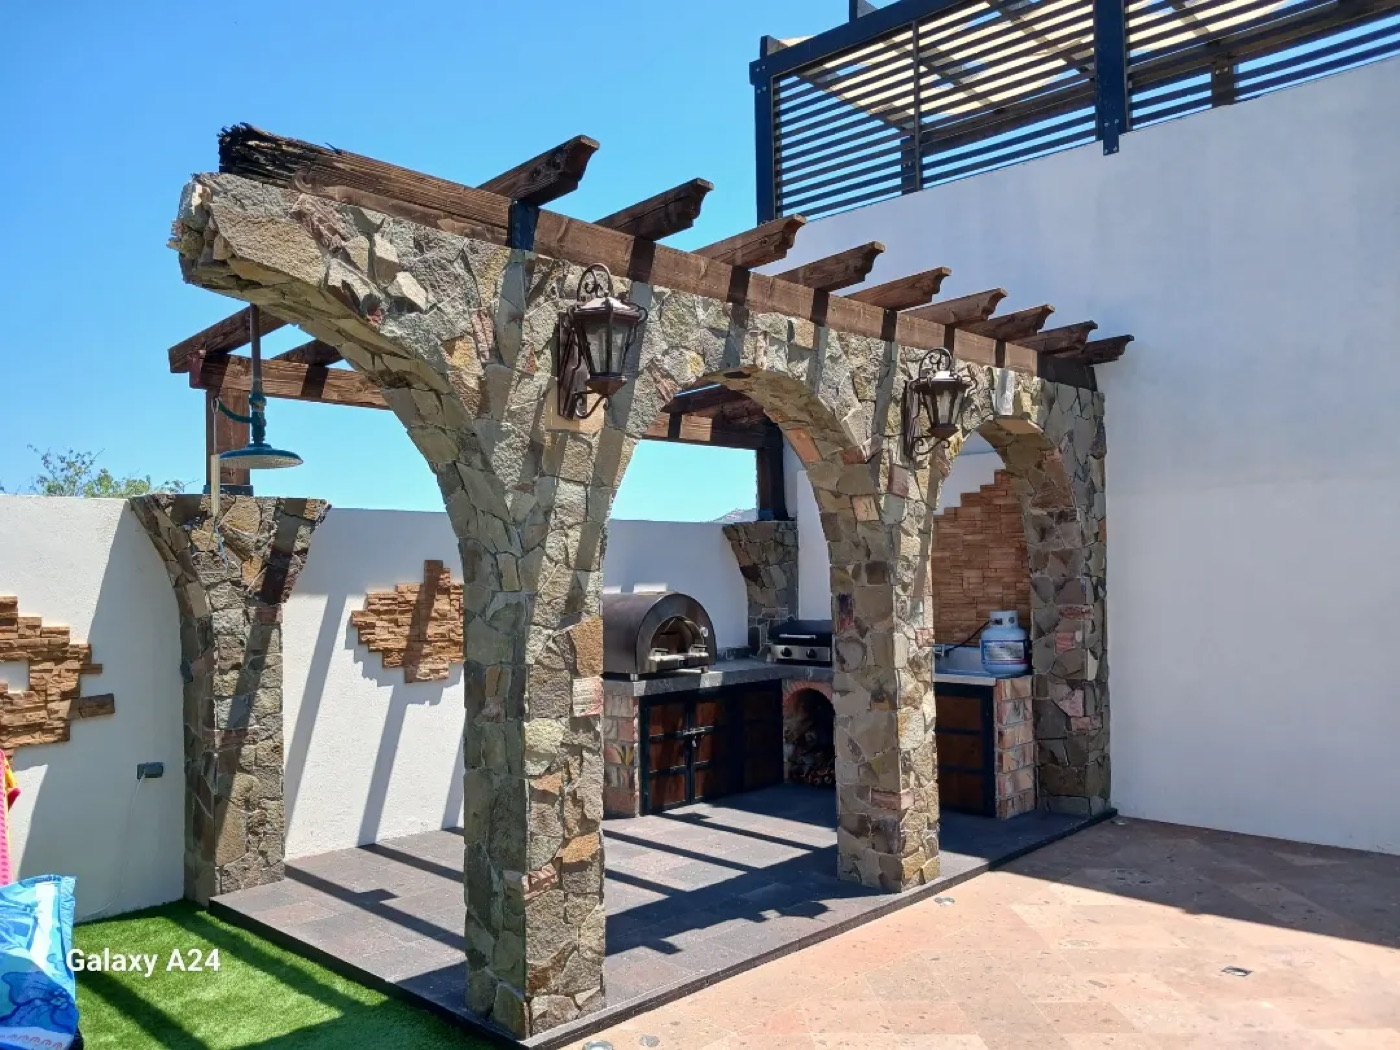
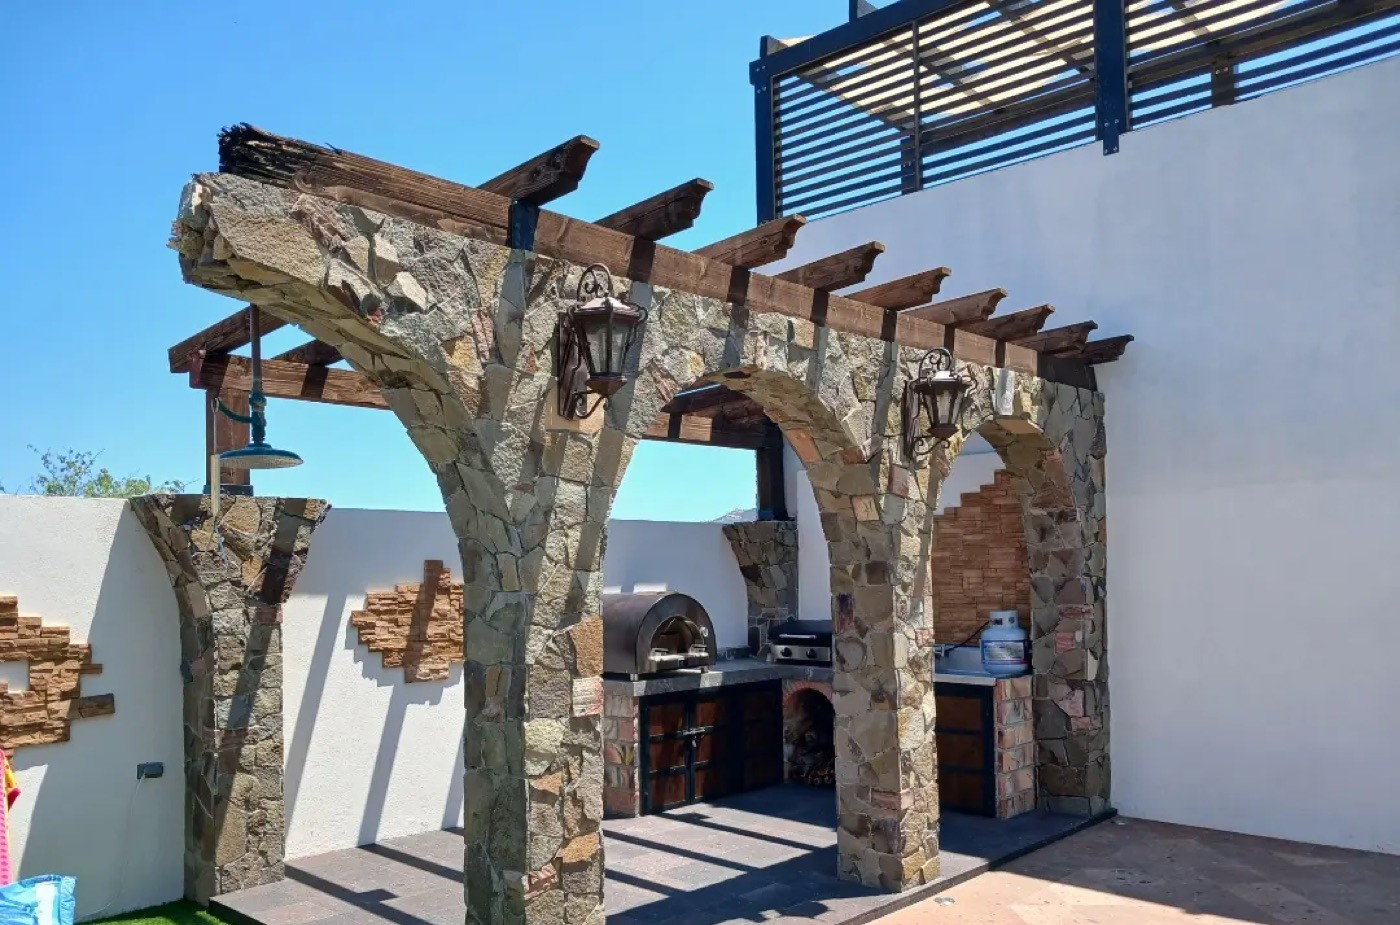
Versión nueva para celular e imagen para compartir el enlace
- Encabezado fijo con menú a pantalla completa, portada con la palabra a todo el ancho
- Carruseles de servicios y proyectos, botón fijo para cotizar y WhatsApp
- Imagen para compartir de 1200x630 y etiquetas og:image
- Fotos sin marca de cámara ni ícono de Instagram; contraste del botón de WhatsApp

diff --git a/index.html b/index.html
@@ -3,12 +3,18 @@
 <head>
 <meta charset="utf-8">
 <meta name="viewport" content="width=device-width, initial-scale=1, viewport-fit=cover">
+<meta name="theme-color" content="#F2EEE8">
 <meta name="description" content="CADICO, taller de carpintería de Nicholas Carter en Los Cabos: puertas, closets, cocinas y muebles a medida.">
 <meta property="og:title" content="CADICO · Taller de carpintería en Los Cabos">
 <meta property="og:description" content="Puertas, closets, cocinas y muebles a medida, dibujados, construidos e instalados por Nicholas Carter.">
-<meta property="og:image" content="https://guaderrama.github.io/cadico/img/vista-previa.jpg">
+<meta property="og:image" content="https://guaderrama.github.io/cadico/img/compartir.jpg">
+<meta property="og:image:width" content="1200">
+<meta property="og:image:height" content="630">
+<meta property="og:image:alt" content="CADICO, taller de carpintería en Los Cabos">
 <meta property="og:type" content="website">
+<meta property="og:url" content="https://guaderrama.github.io/cadico/">
 <meta name="twitter:card" content="summary_large_image">
+<meta name="twitter:image" content="https://guaderrama.github.io/cadico/img/compartir.jpg">
 <link rel="icon" href="img/logo.png">
 <title>CADICO Carpintería</title>
 <meta name="robots" content="noindex">
@@ -47,6 +53,7 @@ h1,h2,h3{text-wrap:balance}
 .btn-oscuro{background:var(--espresso);color:var(--on-dark)}.btn-oscuro:hover{color:var(--accent-light)}
 .btn-borde{border-color:var(--ink);color:var(--ink)}
 .btn-claro{background:var(--accent-light);color:var(--ink);min-height:58px;font-size:17px;font-weight:600}.btn-claro:hover{color:var(--ink);background:#EBD2B3}
+.oscuro a.btn-claro,.oscuro a.btn-claro:hover{color:var(--ink)}
 .nota{font-family:var(--hand);color:var(--accent)}
 
 /* Encabezado */
@@ -203,11 +210,112 @@ legend span{color:var(--accent-light)}
 .pie-cols a{padding:6px 0;font-size:16px}
 .pie-cols .lista{display:flex;flex-direction:column;gap:4px}
 .gigante{height:clamp(64px, 13.4vw, 196px);overflow:hidden;text-align:center;font-size:clamp(96px, 21.5vw, 314px);line-height:.8;font-weight:500;letter-spacing:-.055em;color:var(--pale-word);margin-top:28px}
+
+/* Movimiento: letras de la portada y entrada de secciones */
+.palabra .l{display:inline-block;animation:letra 1s cubic-bezier(.2,.75,.2,1) both}
+.palabra .l:nth-child(2){animation-delay:.05s}.palabra .l:nth-child(3){animation-delay:.1s}.palabra .l:nth-child(4){animation-delay:.15s}.palabra .l:nth-child(5){animation-delay:.2s}.palabra .l:nth-child(6){animation-delay:.25s}
+@keyframes letra{from{opacity:0;transform:translateY(.32em)}to{opacity:1;transform:none}}
+.js .rv{opacity:0;transform:translateY(32px);transition:opacity .9s ease, transform 1s cubic-bezier(.2,.7,.2,1)}
+.js .rv.visto{opacity:1;transform:none}
+.ig .rv:nth-child(2n){transition-delay:.08s}
+.pasos .rv:nth-child(2){transition-delay:.06s}.pasos .rv:nth-child(3){transition-delay:.12s}.pasos .rv:nth-child(4){transition-delay:.18s}
+
+/* Piezas solo de celular: ocultas en pantallas grandes */
+.btn-menu,.menu-movil,.barra-cta,.carril{display:none}
+.obras{display:flex;flex-direction:column;gap:44px}
+
+@media (max-width:700px){
+  html{scroll-padding-top:76px}
+  body{font-size:16px}
+  /* Encabezado fijo en una sola línea */
+  .barra{position:sticky;top:0;z-index:40;background:rgba(242,238,232,.88);-webkit-backdrop-filter:blur(14px) saturate(1.2);backdrop-filter:blur(14px) saturate(1.2);border-bottom:1px solid transparent;transition:border-color .3s ease}
+  .barra.con-linea{border-bottom-color:var(--line)}
+  .top{flex-wrap:nowrap;gap:10px;padding-block:10px}
+  .marca img{width:38px;height:38px}
+  .marca span{font-size:20px}
+  .acciones{gap:8px}
+  .acciones .btn{display:none}
+  .idioma button{min-width:40px;min-height:36px}
+  .btn-menu{display:inline-flex;align-items:center;justify-content:center;flex:0 0 auto;width:44px;height:44px;padding:0;border:0;border-radius:50%;background:var(--espresso);color:var(--on-dark);cursor:pointer}
+
+  /* Menú a pantalla completa */
+  .menu-movil{display:flex;position:fixed;inset:0;z-index:60;flex-direction:column;gap:28px;overflow-y:auto;padding:10px var(--gutter) calc(26px + env(safe-area-inset-bottom, 0px));background:var(--espresso) url(dib/plano-crema.svg) no-repeat left -460px bottom -200px / 1100px auto;color:var(--on-dark);opacity:0;visibility:hidden;transition:opacity .35s ease, visibility 0s linear .35s}
+  .menu-movil.abierto{opacity:1;visibility:visible;transition:opacity .35s ease}
+  .mm-top{display:flex;align-items:center;justify-content:space-between}
+  .mm-top .marca{color:var(--on-dark)}
+  .mm-top .marca img{mix-blend-mode:screen;filter:invert(1)}
+  .menu-movil .cerrar{background:var(--bg);color:var(--ink)}
+  .menu-movil nav{display:flex;flex-direction:column;margin-top:auto}
+  .menu-movil nav a{display:flex;align-items:baseline;gap:14px;padding:10px 0;border-bottom:1px solid rgba(242,238,232,.16);font-family:var(--serif);font-size:44px;line-height:1.1;font-weight:500;text-decoration:none;color:var(--on-dark);opacity:0;transform:translateY(18px);transition:opacity .5s ease, transform .6s cubic-bezier(.2,.7,.2,1)}
+  .menu-movil nav a .mm-n{font-family:var(--sans);font-size:13px;font-weight:500;color:var(--accent-light)}
+  .menu-movil.abierto nav a{opacity:1;transform:none}
+  .menu-movil.abierto nav a:nth-child(2){transition-delay:.05s}.menu-movil.abierto nav a:nth-child(3){transition-delay:.1s}.menu-movil.abierto nav a:nth-child(4){transition-delay:.15s}.menu-movil.abierto nav a:nth-child(5){transition-delay:.2s}
+  .mm-pie{display:flex;flex-direction:column;gap:16px}
+  .mm-pie p{margin:0;display:flex;justify-content:space-between;gap:12px;font-size:14px;color:var(--on-dark-3)}
+  .mm-pie p a{color:var(--on-dark-2)}
+
+  /* Portada: palabra de lado a lado y el banco encima */
+  .hero{background-size:980px auto;background-position:left -380px top 40px}
+  .hero .wrap{display:flex;flex-direction:column;min-height:calc(100svh - 64px);padding-block:22px 64px}
+  .sub{order:0;margin:0 0 10px;text-align:center;font-size:12px;font-weight:500;letter-spacing:.2em;text-transform:uppercase;color:var(--ink-2)}
+  .palabra{order:1;font-size:33.5vw;line-height:.86}
+  .banco-hero{order:2;width:76%;margin:-9vw auto 76px}
+  .hero-fila{order:3;margin-top:0;gap:26px}
+  .hero-texto,.tarjetas{flex:1 1 100%}
+  .hero-texto p{font-size:17px}
+
+  /* Títulos de sección: el número arriba, como etiqueta */
+  .sec{padding-top:92px}
+  .head-row:has(> .num),.head-row:has(> div > .num){flex-direction:column-reverse;align-items:flex-start;gap:14px}
+  .head-row > div:has(> .num){flex-direction:row !important;align-items:center !important;justify-content:space-between;width:100%}
+  .num{font-size:14px;color:var(--accent);letter-spacing:.04em}
+  .h2-duo{font-size:40px;line-height:1.04}
+
+  /* Carruseles que se deslizan con el dedo */
+  .indice,.obras{display:flex !important;flex-direction:row !important;gap:12px;overflow-x:auto;scroll-snap-type:x mandatory;overscroll-behavior-x:contain;margin-inline:calc(-1 * var(--gutter));padding:4px var(--gutter) 8px;scroll-padding-inline:var(--gutter);scrollbar-width:none;border-top:0}
+  .indice::-webkit-scrollbar,.obras::-webkit-scrollbar{display:none}
+  .indice::after,.obras::after{content:"";flex:0 0 1px}
+  .indice li{flex:0 0 78%;scroll-snap-align:start;flex-direction:column;align-items:stretch;gap:8px;padding:0;border:0}
+  .indice .mini,.indice .mini-fondo{order:-1;width:100%;height:auto;aspect-ratio:4/5;border-radius:24px;margin-bottom:8px}
+  .indice .mini-fondo img{width:88%;height:80%}
+  .indice .n,.indice h3,.indice p{flex:none}
+  .indice .n{font-size:13px}
+  .indice h3{font-size:34px}
+  .indice p{font-size:15px}
+  .obras > .dos,.obras > .rejilla,.obras > .dos > div{display:contents !important}
+  .obras .obra{flex:0 0 84% !important;scroll-snap-align:start;position:relative;gap:0}
+  .obras .obra img{aspect-ratio:4/5 !important;border-radius:24px !important}
+  .obras .obra-pie{position:absolute;left:0;right:0;bottom:0;align-items:flex-end;padding:90px 18px 18px;border-radius:0 0 24px 24px;background:linear-gradient(rgba(33,26,21,0), rgba(33,26,21,.86));color:var(--on-dark)}
+  .obras .obra h3,.obras .obra .grande{font-size:28px;color:var(--on-dark)}
+  .obras .obra p{color:var(--on-dark-2)}
+  .obras .tag{border-color:rgba(242,238,232,.5);color:var(--on-dark)}
+  .carril{display:block;height:2px;margin-top:-26px;border-radius:2px;background:var(--line);overflow:hidden}
+  .carril span{display:block;width:20%;height:100%;background:var(--accent);transition:width .2s ease}
+
+  /* Otras secciones */
+  .panel-foto{min-height:440px}
+  .muestras{gap:10px}
+
+  /* Botón fijo para cotizar */
+  .barra-cta{display:flex;position:fixed;left:12px;right:12px;bottom:calc(12px + env(safe-area-inset-bottom, 0px));z-index:45;gap:8px;transform:translateY(160%);transition:transform .5s cubic-bezier(.2,.7,.2,1)}
+  .barra-cta.ver{transform:none}
+  .barra-cta .btn{flex:1 1 auto;min-height:56px;padding:0 20px;background:var(--espresso);color:var(--on-dark);box-shadow:0 14px 34px rgba(42,32,26,.38)}
+  .barra-cta .wa{flex:0 0 56px;height:56px;border-radius:50%;background:var(--accent-light);color:var(--ink);display:flex;align-items:center;justify-content:center;box-shadow:0 14px 34px rgba(42,32,26,.3)}
+  .pie{padding-bottom:84px}
+}
+@media (max-width:700px) and (prefers-reduced-motion:no-preference){
+  html{scroll-behavior:smooth}
+}
+@media (prefers-reduced-motion:reduce){
+  .palabra .l{animation:none}
+  .js .rv{opacity:1;transform:none;transition:none}
+  .menu-movil,.menu-movil nav a,.barra-cta,.carril span{transition:none}
+}
 </style>
 </head>
 <body>
 
-<div class="wrap">
+<div class="wrap barra" id="barra">
 <header class="top">
 <a class="marca" href="#inicio"><img src="img/logo.png" alt=""><span>cadico</span></a>
 <nav class="menu" data-aria="navLabel" aria-label="Navegación principal">
@@ -223,13 +331,32 @@ legend span{color:var(--accent-light)}
 <button type="button" id="btn-en" aria-pressed="false" aria-label="English">EN</button>
 </div>
 <a class="btn btn-oscuro" href="https://wa.me/526241549686" target="_blank" rel="noopener"><span data-t="ctaWa">Cotizar</span> <span aria-hidden="true">→</span></a>
+<button type="button" class="btn-menu" id="btn-menu" aria-expanded="false" aria-controls="menu-movil" data-aria="menuAbrir" aria-label="Abrir menú"><svg aria-hidden="true" width="22" height="22" viewBox="0 0 24 24" fill="none" stroke="currentColor" stroke-width="1.8" stroke-linecap="round"><path d="M4 9h16M4 15h16"/></svg></button>
 </div>
 </header>
 </div>
 
+<div class="menu-movil" id="menu-movil" role="dialog" aria-modal="true" data-aria="menuLabel" aria-label="Menú">
+<div class="mm-top">
+<span class="marca"><img src="img/logo.png" alt=""><span>cadico</span></span>
+<button type="button" class="btn-menu cerrar" id="btn-cerrar" data-aria="menuCerrar" aria-label="Cerrar menú"><svg aria-hidden="true" width="22" height="22" viewBox="0 0 24 24" fill="none" stroke="currentColor" stroke-width="1.8" stroke-linecap="round"><path d="M6 6l12 12M18 6L6 18"/></svg></button>
+</div>
+<nav data-aria="navLabel" aria-label="Navegación principal">
+<a href="#servicios"><span class="mm-n">01</span><span data-t="nav1">Servicios</span></a>
+<a href="#proyectos"><span class="mm-n">02</span><span data-t="nav2">Proyectos</span></a>
+<a href="#taller"><span class="mm-n">03</span><span data-t="nav3">Taller</span></a>
+<a href="#proceso"><span class="mm-n">04</span><span data-t="nav4">Proceso</span></a>
+<a href="#cotizar"><span class="mm-n">05</span><span data-t="nav6">Cotizar</span></a>
+</nav>
+<div class="mm-pie">
+<a class="btn btn-claro" href="https://wa.me/526241549686" target="_blank" rel="noopener"><span data-t="ctaWa2">Cotizar por WhatsApp</span> <span aria-hidden="true">→</span></a>
+<p><a href="https://www.instagram.com/cadico_mx/" target="_blank" rel="noopener">Instagram · @cadico_mx</a><span>Los Cabos, B.C.S.</span></p>
+</div>
+</div>
+
 <section id="inicio" class="hero">
 <div class="wrap">
-<h1 class="palabra">cadico</h1>
+<h1 class="palabra" aria-label="cadico"><span class="l" aria-hidden="true">c</span><span class="l" aria-hidden="true">a</span><span class="l" aria-hidden="true">d</span><span class="l" aria-hidden="true">i</span><span class="l" aria-hidden="true">c</span><span class="l" aria-hidden="true">o</span></h1>
 <p class="sub" data-t="heroSub">taller de carpintería · los cabos</p>
 <div class="banco-hero">
 <img src="img/banco-recorte.png" data-alt="bancoAlt" alt="Banco de madera con asiento curvo, hecho por CADICO">
@@ -274,13 +401,14 @@ legend span{color:var(--accent-light)}
 <h2 class="h2-duo"><span class="suave" data-t="servA">Cinco oficios,</span><br><span data-t="servB">un mismo taller.</span></h2>
 <span class="num" data-t="n02">02 / Servicios</span>
 </div>
-<ul class="indice">
+<ul class="indice" data-carril="serv">
 <li><span class="n">01</span><h3 data-t="s1">Puertas</h3><p data-t="s1p">De interior, de entrada y con arco. Lisas, de tablero o rústicas.</p><img class="mini foto" src="img/puerta-rustica.jpg" data-alt="s1Alt" alt="Puerta doble rústica con clavos y herrajes de hierro"></li>
 <li><span class="n">02</span><h3 data-t="s2">Closets y vestidores</h3><p data-t="s2p">De piso a techo, con cajoneras y entrepaños a la medida.</p><img class="mini foto" src="img/closet.jpg" data-alt="s2Alt" alt="Closet de piso a techo con chapa de madera rojiza"></li>
 <li><span class="n">03</span><h3 data-t="s3">Cocinas y barras</h3><p data-t="s3p">Gabinetes, barras y coperos para casas y restaurantes.</p><img class="mini foto" src="img/cocina.jpg" data-alt="s3Alt" alt="Cocina con gabinetes de madera clara" style="object-position: 70% center"></li>
 <li><span class="n">04</span><h3 data-t="s4">Muebles a medida</h3><p data-t="s4p">Mesas, bancos, escritorios y vitrinas, pieza por pieza.</p><span class="mini-fondo"><img src="img/vitrina-recorte.png" data-alt="s4Alt" alt="Vitrina de madera para joyería con la tapa abierta"></span></li>
 <li><span class="n">05</span><h3 data-t="s5">Exteriores</h3><p data-t="s5p">Pérgolas, terrazas, jardineras y escaleras hechas para el sol de Baja.</p><img class="mini foto" src="img/pergola-cochera.jpg" data-alt="s5Alt" alt="Pérgola de madera sobre una cochera"></li>
 </ul>
+<div class="carril" data-barra="serv" aria-hidden="true"><span></span></div>
 </div>
 </section>
 
@@ -327,6 +455,7 @@ legend span{color:var(--accent-light)}
 <a class="enlace" href="https://www.instagram.com/cadico_mx/" target="_blank" rel="noopener"><span data-t="verTodos">Ver todos en Instagram</span> ↗</a>
 </div>
 </div>
+<div class="obras" data-carril="obras">
 <div class="dos">
 <article class="obra" style="flex: 2 1 560px">
 <img class="redondo foto" src="img/terraza.jpg" data-alt="p1Alt" alt="Terraza con deck y jardineras de madera frente a los cerros" style="aspect-ratio: 5 / 4">
@@ -357,6 +486,8 @@ legend span{color:var(--accent-light)}
 <div class="obra-pie"><div><h3 data-t="p6">Sala de juntas con lambrín</h3><p data-t="p6d">Lambrín iluminado y mesa de madera</p></div><span class="tag" data-t="p6t">Corporativo</span></div>
 </article>
 </div>
+</div>
+<div class="carril" data-barra="obras" aria-hidden="true"><span></span></div>
 </div>
 </section>
 
@@ -467,6 +598,11 @@ legend span{color:var(--accent-light)}
 </div>
 </section>
 
+<div class="barra-cta" id="barra-cta">
+<a class="btn" href="#cotizar"><span data-t="heroB1">Cuéntanos tu proyecto</span> <span aria-hidden="true">→</span></a>
+<a class="wa" href="https://wa.me/526241549686" target="_blank" rel="noopener" data-aria="waLabel" aria-label="Escribir por WhatsApp"><svg aria-hidden="true" width="24" height="24" viewBox="0 0 24 24" fill="none" stroke="currentColor" stroke-width="1.7" stroke-linecap="round" stroke-linejoin="round"><path d="M20.5 11.6a8.4 8.4 0 0 1-12.3 7.4L3.5 20.5l1.6-4.5A8.4 8.4 0 1 1 20.5 11.6Z"/><path d="M9.2 8.4c0 3.1 2.9 6.2 6.2 6.3l1-1.5-1.9-1-1 .8c-.9-.4-1.7-1.2-2.1-2.1l.8-1-1-1.9Z"/></svg></a>
+</div>
+
 <footer id="contacto" class="pie sec">
 <div class="wrap" style="display: flex; flex-direction: column; gap: 36px">
 <div class="pie-cols">
@@ -498,6 +634,7 @@ legend span{color:var(--accent-light)}
 (function () {
   var T = {
     es: {
+      menuAbrir: "Abrir menú", menuCerrar: "Cerrar menú", menuLabel: "Menú", nav6: "Cotizar", ctaWa2: "Cotizar por WhatsApp", waLabel: "Escribir por WhatsApp",
       navLabel: "Navegación principal", nav1: "Servicios", nav2: "Proyectos", nav3: "Taller", nav4: "Proceso", nav5: "Contacto",
       ctaWa: "Cotizar", heroSub: "taller de carpintería · los cabos",
       heroP: "Puertas, closets, cocinas y muebles a medida, dibujados, construidos e instalados por Nicholas Carter.",
@@ -550,6 +687,7 @@ legend span{color:var(--accent-light)}
       pieTag: "Carpintería, diseño y construcción. Hecho a mano en Los Cabos, B.C.S.", contacto: "Contacto", navPie: "Sitio", hecho: "Los Cabos, Baja California Sur"
     },
     en: {
+      menuAbrir: "Open menu", menuCerrar: "Close menu", menuLabel: "Menu", nav6: "Get a quote", ctaWa2: "Get a quote on WhatsApp", waLabel: "Message on WhatsApp",
       navLabel: "Main navigation", nav1: "Services", nav2: "Projects", nav3: "Workshop", nav4: "Process", nav5: "Contact",
       ctaWa: "Get a quote", heroSub: "woodworking studio · los cabos",
       heroP: "Custom doors, closets, kitchens and furniture, sketched, built and installed by Nicholas Carter.",
@@ -665,9 +803,84 @@ legend span{color:var(--accent-light)}
   var wipe = document.getElementById("wipe");
   var rango = document.getElementById("comparador");
   function cortar() { wipe.style.setProperty("--cut", rango.value + "%"); }
-  rango.addEventListener("input", cortar);
+  var tocado = false;
+  rango.addEventListener("input", function () { tocado = true; cortar(); });
   cortar();
   pintar();
+
+  var quieto = window.matchMedia && matchMedia("(prefers-reduced-motion: reduce)").matches;
+  var hayIO = "IntersectionObserver" in window;
+
+  // Menú de celular
+  var raiz = document.documentElement;
+  var menuBtn = document.getElementById("btn-menu"), menuMv = document.getElementById("menu-movil"), cerrarBtn = document.getElementById("btn-cerrar");
+  function menu(abrir, devolverFoco) {
+    menuMv.classList.toggle("abierto", abrir);
+    menuBtn.setAttribute("aria-expanded", abrir ? "true" : "false");
+    raiz.style.overflow = abrir ? "hidden" : "";
+    if (abrir) cerrarBtn.focus({ preventScroll: true });
+    else if (devolverFoco) menuBtn.focus({ preventScroll: true });
+    verCta();
+  }
+  menuBtn.addEventListener("click", function () { menu(true); });
+  cerrarBtn.addEventListener("click", function () { menu(false, true); });
+  menuMv.querySelectorAll("a[href^='#']").forEach(function (a) { a.addEventListener("click", function () { menu(false, false); }); });
+  document.addEventListener("keydown", function (e) { if (e.key === "Escape" && menuMv.classList.contains("abierto")) menu(false, true); });
+
+  // Línea bajo el encabezado al bajar
+  var barra = document.getElementById("barra");
+  function linea() { barra.classList.toggle("con-linea", window.scrollY > 8); }
+  addEventListener("scroll", linea, { passive: true }); linea();
+
+  // Botón fijo: aparece después de la portada y se esconde en la sección de cotizar y el pie
+  var cta = document.getElementById("barra-cta"), vis = { inicio: true, cotizar: false, contacto: false };
+  function verCta() {
+    var ver = !vis.inicio && !vis.cotizar && !vis.contacto && !menuMv.classList.contains("abierto");
+    cta.classList.toggle("ver", ver);
+    cta.inert = !ver;
+  }
+  if (hayIO) {
+    var ioCta = new IntersectionObserver(function (es) { es.forEach(function (e) { vis[e.target.id] = e.isIntersecting; }); verCta(); });
+    ["inicio", "cotizar", "contacto"].forEach(function (id) { ioCta.observe(document.getElementById(id)); });
+  }
+  verCta();
+
+  // Barras de avance de los carruseles
+  document.querySelectorAll("[data-carril]").forEach(function (c) {
+    var barraC = document.querySelector('[data-barra="' + c.dataset.carril + '"] span');
+    function avance() { if (c.scrollWidth > c.clientWidth) barraC.style.width = Math.min(100, (c.scrollLeft + c.clientWidth) / c.scrollWidth * 100) + "%"; }
+    c.addEventListener("scroll", avance, { passive: true });
+    addEventListener("resize", avance);
+    avance();
+  });
+
+  // Entrada suave de secciones
+  if (hayIO && !quieto) {
+    raiz.classList.add("js");
+    var io = new IntersectionObserver(function (es) {
+      es.forEach(function (e) { if (e.isIntersecting) { e.target.classList.add("visto"); io.unobserve(e.target); } });
+    }, { rootMargin: "0px 0px -6% 0px", threshold: 0.06 });
+    document.querySelectorAll(".h2-duo, #nosotros .redondo, .indice, .obras, .serif-caps, .lamina, .wipe, .materia h2, .muestras, .panel, .pasos li, .ig img, .cotizador, .pie-cols").forEach(function (el) {
+      el.classList.add("rv"); io.observe(el);
+    });
+
+    // El comparador se mueve solo una vez para mostrar que se puede deslizar
+    var ioWipe = new IntersectionObserver(function (es) {
+      if (!es[0].isIntersecting) return;
+      ioWipe.disconnect();
+      var pasos = [[52, 82], [82, 22], [22, 52]], i = 0, t0 = null, dur = 900;
+      function cuadro(t) {
+        if (tocado) return;
+        if (t0 === null) t0 = t;
+        var k = Math.min(1, (t - t0) / dur), s = k < .5 ? 2 * k * k : 1 - Math.pow(-2 * k + 2, 2) / 2;
+        rango.value = Math.round(pasos[i][0] + (pasos[i][1] - pasos[i][0]) * s); cortar();
+        if (k < 1) requestAnimationFrame(cuadro);
+        else if (++i < pasos.length) { t0 = null; requestAnimationFrame(cuadro); }
+      }
+      setTimeout(function () { requestAnimationFrame(cuadro); }, 500);
+    }, { threshold: 0.5 });
+    ioWipe.observe(wipe);
+  }
 })();
 </script>
 </body>
